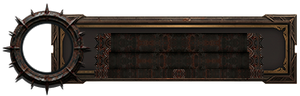
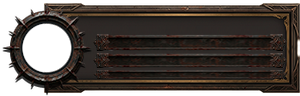
Align the reskinned client UI: orb rings, character plate, level badge, window frames (O155)
Orb ring art was cropped round a guessed centre (3, 2 pack texels off the real
opening, so the rim looked thicker right and down). The importer now uses the
measured opening (201, 209, radius 93.5), crops the square round it, cuts the
opening on the canvas centre at the liquid mask radius, and eases the panel join
cut. gen_orb_art.py --check measures each ring opening (centre within 1 texel,
radius within 1 drawn pixel of the mask).

Plate: frame drawn from corners and stretched edges, tracks span the trough
(x 93 to 287) with the fill between their caps (fill x 107, was 96), name and
three tracks 2 px apart, nothing of the frame in the portrait opening, xp fill 7.
Level badge is the pack's name plate, centred under the ring (was a red button).

9-slice frames: trimmed to opaque pixels (the right border was 2 texels thin),
scaled so corners fit whole, edges and middle cross-faded to tile without a seam.

Claude-Session: https://claude.ai/code/session_01MSp5LCfR63GEHJQb2KD2t4

diff --git a/client/tools/import_hud_kit.py b/client/tools/import_hud_kit.py
@@ -55,6 +55,7 @@ SRC = {
     'tab_on': 'Popup/PNG/Inventory_Detail_Popup/Tab_Button_Active.png',
     'tab_off': 'Popup/PNG/Inventory_Detail_Popup/Tab_Button_Inactive.png',
     'input': 'Popup/PNG/Inventory_Detail_Popup/Input_Field.png',
+    'badge': 'Dialogue & NPC/NPC_Nameplate.png',
 }
 
 GOLD_L = (232, 184, 74)
@@ -84,50 +85,86 @@ def rs(img, w, h):
     return img.resize((max(1, int(w)), max(1, int(h))), Image.LANCZOS)
 
 
-def mirrored(img, axis, n):
-    """`img` (a sample) laid out to n texels along `axis` (0 = x, 1 = y) as itself and its mirror image, so the
-    result tiles without a seam (the engine tiles the edges and the middle of a 9-slice image)"""
-    arr = np.asarray(img)
-    ax = 1 if axis == 0 else 0
-    both = np.concatenate([arr, np.flip(arr, ax)], axis=ax)
-    sl = [slice(None), slice(None)]
-    sl[ax] = slice(0, n)
-    return Image.fromarray(np.ascontiguousarray(both[tuple(sl)]), 'RGBA')
+def trim(img):
+    """the image cropped to its opaque pixels: the pack's frames carry a few transparent texels on one side, which
+    made one border of a 9-slice thinner than the other"""
+    a = np.asarray(img)[..., 3]
+    ys, xs = np.nonzero(a > 128)
+    return img.crop((int(xs.min()), int(ys.min()), int(xs.max()) + 1, int(ys.max()) + 1))
 
 
-def nine(src, W, H, caps, borders):
-    """A W x H image with borders (l, t, r, b) made of the pack image `src`: its corners (caps in pack texels),
-    a sample of its edges and of its middle, each resized and made tileable"""
+def seamless(arr, w, h):
+    """a w x h tile of `arr` (at least w + f by h + f texels) whose left edge continues its right edge and whose top
+    edge continues its bottom edge: the last f columns / rows are cross-faded into the first ones. The engine repeats
+    the edges and the middle of a 9-slice image as they are, so any other tile shows a seam."""
+    fx, fy = arr.shape[1] - w, arr.shape[0] - h   # the texels beyond the tile that are faded in
+    a = arr[:h + fy, :w + fx].astype(np.float32)
+    if fx:
+        t = ((np.arange(fx) + 0.5) / fx)[None, :, None]
+        head = a[:, :fx] * t + a[:, w:w + fx] * (1 - t)
+        a = np.concatenate([head, a[:, fx:w]], axis=1)
+    else:
+        a = a[:, :w]
+    if fy:
+        t = ((np.arange(fy) + 0.5) / fy)[:, None, None]
+        head = a[:fy] * t + a[h:h + fy] * (1 - t)
+        a = np.concatenate([head, a[fy:h]], axis=0)
+    else:
+        a = a[:h]
+    return Image.fromarray(np.clip(a + 0.5, 0, 255).astype(np.uint8), 'RGBA')
+
+
+def nine(src, W, H, caps, borders, tile=True):
+    """A W x H image with borders (l, t, r, b) made of the pack image `src` (trimmed to its opaque pixels). `caps` are
+    the source texels the corners take: the whole image is resized so that each cap becomes its border (corners and
+    edges stay whole and the same on both sides). The edges and the middle are samples of the resized image, cross-faded
+    so that they repeat without a seam (tile=True, for engine 9-slice images, which repeat them), or stretched
+    (tile=False, for an image drawn once)."""
+    src = trim(src)
     kl, kt, kr, kb = caps
     l, t, r, b = borders
     KW, KH = src.size
-    iw, ih = W - l - r, H - t - b
-    out = Image.new('RGBA', (W, H), (0, 0, 0, 0))
     sx = (l + r) / float(kl + kr) if kl + kr else H / float(KH)
     sy = (t + b) / float(kt + kb) if kt + kb else W / float(KW)
-    nx = max(2, int(round(iw / sx / 2)))   # texels of a sample that fills half of the middle
-    ny = max(2, int(round(ih / sy / 2)))
-    x0, y0 = (KW - nx) // 2, (KH - ny) // 2
+    S = rs(src, KW * sx, KH * sy)
+    SW, SH = S.size
+    out = Image.new('RGBA', (W, H), (0, 0, 0, 0))
+    iw, ih = W - l - r, H - t - b
     if l and t:
-        out.paste(rs(src.crop((0, 0, kl, kt)), l, t), (0, 0))
+        out.paste(S.crop((0, 0, l, t)), (0, 0))
     if r and t:
-        out.paste(rs(src.crop((KW - kr, 0, KW, kt)), r, t), (W - r, 0))
+        out.paste(S.crop((SW - r, 0, SW, t)), (W - r, 0))
     if l and b:
-        out.paste(rs(src.crop((0, KH - kb, kl, KH)), l, b), (0, H - b))
+        out.paste(S.crop((0, SH - b, l, SH)), (0, H - b))
     if r and b:
-        out.paste(rs(src.crop((KW - kr, KH - kb, KW, KH)), r, b), (W - r, H - b))
-    half_w, half_h = (iw + 1) // 2, (ih + 1) // 2
-    if t and iw > 0:
-        out.paste(mirrored(rs(src.crop((x0, 0, x0 + nx, kt)), half_w, t), 0, iw), (l, 0))
-    if b and iw > 0:
-        out.paste(mirrored(rs(src.crop((x0, KH - kb, x0 + nx, KH)), half_w, b), 0, iw), (l, H - b))
-    if l and ih > 0:
-        out.paste(mirrored(rs(src.crop((0, y0, kl, y0 + ny)), l, half_h), 1, ih), (0, t))
-    if r and ih > 0:
-        out.paste(mirrored(rs(src.crop((KW - kr, y0, KW, y0 + ny)), r, half_h), 1, ih), (W - r, t))
+        out.paste(S.crop((SW - r, SH - b, SW, SH)), (W - r, H - b))
+    mw, mh = max(SW - l - r, 1), max(SH - t - b, 1)
+
+    def part(box, w, h, ax=True, ay=True):
+        """the sample of S inside `box` as a w x h piece"""
+        bx0, by0, bx1, by1 = box
+        if not tile:
+            return rs(S.crop(box), w, h)
+        n = w + (min(12, w // 3) if ax else 0)   # an edge repeats along itself only
+        m = h + (min(12, h // 3) if ay else 0)
+        cx, cy = (bx0 + bx1) // 2, (by0 + by1) // 2
+        x0 = max(bx0, min(cx - n // 2, bx1 - n)) if bx1 - bx0 >= n else bx0
+        y0 = max(by0, min(cy - m // 2, by1 - m)) if by1 - by0 >= m else by0
+        arr = np.asarray(S.crop((x0, y0, x0 + n, y0 + m)))
+        if arr.shape[1] < n or arr.shape[0] < m:   # the sample is shorter than the tile: stretch it
+            arr = np.asarray(rs(S.crop(box), n, m))
+        return seamless(arr, w, h)
+
+    if iw > 0 and t:
+        out.paste(part((l, 0, SW - r, t), iw, t, True, False), (l, 0))
+    if iw > 0 and b:
+        out.paste(part((l, SH - b, SW - r, SH), iw, b, True, False), (l, H - b))
+    if ih > 0 and l:
+        out.paste(part((0, t, l, SH - b), l, ih, False, True), (0, t))
+    if ih > 0 and r:
+        out.paste(part((SW - r, t, SW, SH - b), r, ih, False, True), (W - r, t))
     if iw > 0 and ih > 0:
-        mid = rs(src.crop((x0, y0, x0 + nx, y0 + ny)), half_w, half_h)
-        out.paste(mirrored(mirrored(mid, 0, iw), 1, ih), (l, t))
+        out.paste(part((l, t, SW - r, SH - b), iw, ih), (l, t))
     return out
 
 
@@ -172,28 +209,34 @@ def scale_alpha(img, m):
 
 
 # ---------------------------------------------------------------- orbs
-ORB_CENTER = (198, 207)   # centre of the left orb of the pack's panel image
-ORB_HOLE = 97             # radius of its opening (texels)
-ORB_RADIUS = 152          # radius kept (the outer spikes and the chain beyond it are cut with a soft edge)
-ORB_EAST = (-55.0, 45.0)  # degrees: the side that joins the panel, cut from ORB_JOIN on
-ORB_JOIN = 134
+ORB_CENTER = (201.0, 209.0)  # centre of the opening of the left orb of the pack's panel image (image coordinates):
+                             # the circle fitted to the edge of its dark disc, measured, not read off the picture
+ORB_HOLE = 93.5              # that circle's radius (texels)
+ORB_HALF = 142               # half the side of the square kept around it: ORB_HOLE / ORB_HALF is the 50 / 76 of the
+                             # liquid (shaderfxlogic.lua L.orbSize), so the opening is as large as the liquid
+ORB_EAST = (-55.0, 45.0)     # degrees: the side that joins the panel, cut from ORB_JOIN on
+ORB_JOIN = 124
+ORB_UNDER = 1.5              # texels the rim overlaps the liquid's soft edge (no gap of background between them)
 
 
 def orb_source(kit):
-    """the orb's ring on its own: a square of 2 * ORB_RADIUS texels, the opening transparent"""
+    """the orb's ring on its own: a square of 2 * ORB_HALF texels centred on the opening"""
     panel = load(kit, 'panel')
     cx, cy = ORB_CENTER
-    n = ORB_RADIUS
-    img = panel.crop((cx - n, cy - n, cx + n, cy + n))
+    n = ORB_HALF
+    img = panel.crop((int(cx) - n, int(cy) - n, int(cx) + n, int(cy) + n))
     size = 2 * n
     yy, xx = np.mgrid[0:size, 0:size].astype(np.float32)
     dx, dy = xx - (n - 0.5), yy - (n - 0.5)
     d = np.sqrt(dx ** 2 + dy ** 2)
     ang = np.degrees(np.arctan2(dy, dx))
     keep = np.clip((n - d) / 10.0, 0, 1)                             # soft outer edge
-    east = (ang > ORB_EAST[0]) & (ang < ORB_EAST[1])
-    keep = np.where(east, np.minimum(keep, np.clip((ORB_JOIN - d) / 6.0 + 0.5, 0, 1)), keep)
-    keep = keep * np.clip((d - ORB_HOLE) / 1.5 + 0.5, 0, 1)         # the opening
+    # the side that joins the panel is cut back to ORB_JOIN, eased in and out over 20 degrees (no straight edge)
+    mid, half = (ORB_EAST[0] + ORB_EAST[1]) / 2.0, (ORB_EAST[1] - ORB_EAST[0]) / 2.0
+    f = np.clip((half - np.abs(ang - mid)) / 20.0, 0, 1)
+    f = f * f * (3 - 2 * f)
+    limit = n - (n - ORB_JOIN) * f
+    keep = np.minimum(keep, np.clip((limit - d) / 6.0 + 0.5, 0, 1))
     return scale_alpha(img, keep)
 
 
@@ -203,30 +246,48 @@ def orb_sizes():
     return [int(v) for v in re.findall(r'size = (\d+)', m.group(1))] if m else []
 
 
+def liquid_size(size):
+    """as shaderfxlogic.lua L.orbSize (and gen_orb_art.py): floor(size * 50 / 76 + 0.5)"""
+    return int(size * 50 / 76.0 + 0.5)
+
+
 def gen_orbs(kit):
     src = orb_source(kit)
     sizes = orb_sizes()
     if not sizes:
         sys.exit('import_hud_kit: no ORB_SIZES in ' + LOGIC)
     for s in sizes:
-        save(rs(src, 2 * s, 2 * s), os.path.join(ORB_DIR, 'orb_ring_%d.png' % s), 'orb_ring_%d.png' % s)
+        ring = rs(src, 2 * s, 2 * s)
+        # the opening: the liquid's mask is a disc of radius L - 1 texels (gen_orb_art.py) centred on the canvas, so
+        # the ring is cut open on the same centre, a little narrower than the disc
+        r_open = liquid_size(s) - 1 - ORB_UNDER
+        ring = scale_alpha(ring, circle_alpha(2 * s, 2 * s, s - 0.5, s - 0.5, r_open))
+        save(ring, os.path.join(ORB_DIR, 'orb_ring_%d.png' % s), 'orb_ring_%d.png' % s)
     return src
 
 
 # ---------------------------------------------------------------- character plate (game_chaoshud)
+# Every number here is a pixel of the plate (300 x 96); chaoshud.otui and chaoshud.lua (BAR_W) use the same ones.
 HUD_W, HUD_H = 300, 96
 HUD_PC = (47, 48)          # portrait centre
-HUD_BAR_X, HUD_BAR_W = 96, 166
-HUD_BARS = {'hp': (35, 15), 'mp': (54, 13), 'xp': (71, 5)}   # y, height
+PLAQUE = (44, 3, 300, 93)  # the frame behind the bars: x0, y0, x1, y1 (its left part is under the portrait ring)
+PLAQUE_BORDER = (40, 24, 40, 24)   # its corners; the dark trough is what is inside them
+PLAQUE_CAPS = (50, 30, 50, 30)     # the source texels of those corners
+TROUGH_X = (93, 287)       # the visible trough: from the portrait ring to the frame
+TRACK_CAP = 14             # the rivet caps at the two ends of a bar's track
+HUD_BAR_X, HUD_BAR_W = TROUGH_X[0] + TRACK_CAP, 166   # a fill: x and width; the track is 14 wider at each end
+assert TROUGH_X[1] - TROUGH_X[0] == HUD_BAR_W + 2 * TRACK_CAP
+HUD_BARS = {'hp': (35, 15), 'mp': (54, 13), 'xp': (71, 7)}   # fill y, height; the track is 1 taller at each side
+HUD_NAME = (17, 15)        # y, height of the name line above the first track
 AVATAR_SCALE = 0.9
 AVATAR_CENTER = (49.5, 50.5)   # centre of the avatar ring in the pack image
 AVATAR_HOLE = 27.0             # its opening, texels
+LEVEL_SIZE = (40, 17)      # the level badge, under the portrait ring: centred on HUD_PC[0], from y 79 to the plate's bottom
 
 
-def bar_frame(src, W, H):
-    """the pack's rust-framed bar socket as W x H: its two ends kept, the middle repeated"""
-    cap = int(round(28 * H / float(src.height)))
-    return nine(src, W, H, (28, 0, 28, 0), (cap, 0, cap, 0))
+def track(src, W, H):
+    """the pack's rust-framed bar socket as W x H: its two ends kept, the middle stretched"""
+    return nine(src, W, H, (29, 0, 27, 0), (TRACK_CAP, 0, TRACK_CAP, 0), tile=False)
 
 
 def bar_fill(src, W, H):
@@ -249,13 +310,14 @@ def gold_ramp(img):
 def gen_plate(kit):
     avatar = load(kit, 'avatar')
     plate = Image.new('RGBA', (HUD_W, HUD_H), (0, 0, 0, 0))
-    # plaque behind the bars: the pack's wide bar frame, warmed (its slate interior is blue-grey)
+    # frame behind the bars: the pack's wide bar frame, warmed (its slate interior is blue-grey)
     plaque = tint(load(kit, 'plaque'), (1.12, 0.98, 0.82))
-    plate.alpha_composite(rs(plaque, 246, 70), (51, 14))
-    # sockets of the three bars
-    hp_bg = load(kit, 'hp_bg')
+    x0, y0, x1, y1 = PLAQUE
+    plate.alpha_composite(nine(plaque, x1 - x0, y1 - y0, PLAQUE_CAPS, PLAQUE_BORDER, tile=False), (x0, y0))
+    # the track of each bar: as wide as the trough, the fill sits between its caps
+    socket = load(kit, 'hp_bg')
     for key, (y, h) in sorted(HUD_BARS.items()):
-        plate.alpha_composite(bar_frame(hp_bg, HUD_BAR_W + 4, h + 4), (HUD_BAR_X - 2, y - 2))
+        plate.alpha_composite(track(socket, HUD_BAR_W + 2 * TRACK_CAP, h + 2), (HUD_BAR_X - TRACK_CAP, y - 1))
     # portrait ring
     w, h = int(round(avatar.width * AVATAR_SCALE)), int(round(avatar.height * AVATAR_SCALE))
     ring = rs(avatar, w, h)
@@ -264,14 +326,22 @@ def gen_plate(kit):
     hole = AVATAR_HOLE * AVATAR_SCALE
     ring = scale_alpha(ring, circle_alpha(w, h, HUD_PC[0] - ox - 0.5, HUD_PC[1] - oy - 0.5, hole))
     plate.alpha_composite(ring, (ox, oy))
+    # nothing of the frame behind the bars shows in the opening: the portrait (and the cover over it) is clear there
+    plate = scale_alpha(plate, circle_alpha(HUD_W, HUD_H, HUD_PC[0] - 0.5, HUD_PC[1] - 0.5, hole))
     save_image(plate, 'chaos/skin/hud_plate')
     # the part of the plate over the portrait's square corners
     save_image(plate.crop((0, 0, 96, 96)), 'chaos/skin/hud_portrait_cover')
     save_image(bar_fill(load(kit, 'hp'), HUD_BAR_W, HUD_BARS['hp'][1]), 'chaos/skin/hud_hp_fill')
     save_image(bar_fill(load(kit, 'mp'), HUD_BAR_W, HUD_BARS['mp'][1]), 'chaos/skin/hud_mp_fill')
     save_image(bar_fill(gold_ramp(load(kit, 'xp')), HUD_BAR_W, HUD_BARS['xp'][1]), 'chaos/skin/hud_xp_fill')
-    save_image(nine(load(kit, 'btn_pressed'), 40, 18, (18, 18, 18, 18), (4, 4, 4, 4)), 'chaos/skin/hud_level')
+    save_image(gen_level(kit), 'chaos/skin/hud_level')
     return hole
+
+
+def gen_level(kit):
+    """the level badge: the pack's stone name plate with its pointer (turned to point up at the ring), warmed"""
+    plate = trim(load(kit, 'badge')).transpose(Image.FLIP_TOP_BOTTOM)
+    return tint(rs(plate, *LEVEL_SIZE), (1.25, 1.05, 0.8), (6, 2, 0))
 
 
 # ---------------------------------------------------------------- action bar slots
@@ -289,13 +359,13 @@ def gen_slots(kit):
 # ---------------------------------------------------------------- windows, panels, controls
 def gen_windows(kit):
     frame = load(kit, 'frame')
-    save_image(nine(frame, 96, 96, (18, 34, 18, 18), (18, 34, 18, 18)), 'chaos/window')
-    save_image(nine(frame, 128, 128, (12, 32, 12, 12), (12, 32, 12, 12)), 'chaos/skin/window')
-    # the minimap window (stock MapMiniWindow: border 4, top 19, bottom 4): half the size
-    save_image(nine(frame, 102, 114, (8, 38, 8, 8), (4, 19, 4, 4)), 'ui/map-borderimage')
-    save_image(nine(frame, 32, 32, (8, 8, 8, 8), (8, 8, 8, 8)), 'chaos/panel')
-    save_image(tint(nine(frame, 32, 32, (6, 6, 6, 6), (6, 6, 6, 6)), (0.8, 0.8, 0.8)), 'chaos/panel_dark')
-    save_image(tint(nine(frame, 32, 32, (8, 8, 8, 8), (8, 8, 8, 8)), (1.5, 1.4, 1.2), (14, 9, 2)),
+    save_image(nine(frame, 96, 96, (24, 45, 24, 24), (18, 34, 18, 18)), 'chaos/window')
+    save_image(nine(frame, 128, 128, (22, 58, 22, 22), (12, 32, 12, 12)), 'chaos/skin/window')
+    # the minimap window (stock MapMiniWindow: border 4, top 19, bottom 4): at a third of the pack size
+    save_image(nine(frame, 102, 114, (12, 57, 12, 12), (4, 19, 4, 4)), 'ui/map-borderimage')
+    save_image(nine(frame, 32, 32, (24, 24, 24, 24), (8, 8, 8, 8)), 'chaos/panel')
+    save_image(tint(nine(frame, 32, 32, (18, 18, 18, 18), (6, 6, 6, 6)), (0.8, 0.8, 0.8)), 'chaos/panel_dark')
+    save_image(tint(nine(frame, 32, 32, (24, 24, 24, 24), (8, 8, 8, 8)), (1.5, 1.4, 1.2), (14, 9, 2)),
                'chaos/panel_highlight')
     save_image(nine(load(kit, 'tip'), 32, 32, (10, 10, 10, 10), (4, 4, 4, 4)), 'chaos/skin/tooltip')
 

diff --git a/client/tools/gen_orb_art.py b/client/tools/gen_orb_art.py
@@ -11,13 +11,15 @@ widget draws with image-smooth), and a UI scaled 2x draws it 1:1.
   orb_ring_<S>.png  2S x 2S  made by import_hud_kit.py (S the orb size, L its liquid: round(S * 50 / 76))
 
 Usage: python3 client/tools/gen_orb_art.py [--check]   (Pillow; writes into overlay/modules/game_shaderfx/images/)
-  --check: the committed masks have the pixels the generator draws and every ring exists at 2S x 2S (exit 1 when
-  not, or when a stray orb image is left); nothing is written.
+  --check: the committed masks have the pixels the generator draws, every ring exists at 2S x 2S, the opening of each
+  ring is centred on its canvas (1 texel) and as wide as the mask (1 drawn pixel; exit 1 when not, or when a stray orb
+  image is left); nothing is written.
 """
 import math
 import os
 import re
 import sys
+from collections import deque
 
 from PIL import Image
 
@@ -69,6 +71,52 @@ def art():
     return out
 
 
+def opening(img):
+    """(centre x, centre y, radius) of the transparent opening around the middle of a ring image, in texels (pixel
+    centres at index + 0.5): its alpha < 128 region as flooded from the middle; the radius is the circle of equal area"""
+    w, h = img.size
+    alpha = img.getchannel('A').load()
+    start = (w // 2, h // 2)
+    if alpha[start] >= 128:
+        return None
+    seen = {start}
+    todo = deque([start])
+    while todo:
+        x, y = todo.popleft()
+        for nx, ny in ((x + 1, y), (x - 1, y), (x, y + 1), (x, y - 1)):
+            if 0 <= nx < w and 0 <= ny < h and (nx, ny) not in seen and alpha[nx, ny] < 128:
+                seen.add((nx, ny))
+                todo.append((nx, ny))
+    n = float(len(seen))
+    return (sum(x for x, y in seen) / n + 0.5, sum(y for x, y in seen) / n + 0.5, math.sqrt(n / math.pi))
+
+
+def check_concentric(images):
+    """the ring's opening is centred on its canvas (within 1 texel) and as wide as the liquid's mask (within 1 drawn
+    pixel = SCALE texels, the rim overlapping the liquid by a little): the liquid fills the opening and nothing else"""
+    bad = []
+    for s in orb_sizes(open(LOGIC, encoding='utf-8').read()):
+        name = 'orb_ring_%d.png' % s
+        path = os.path.join(OUT, name)
+        if not os.path.exists(path) or Image.open(path).size != (s * SCALE, s * SCALE):
+            continue   # reported by check()
+        hole = opening(Image.open(path).convert('RGBA'))
+        if hole is None:
+            bad.append(name + ': no opening in the middle of the ring')
+            continue
+        c = s * SCALE / 2.0
+        if abs(hole[0] - c) > 1 or abs(hole[1] - c) > 1:
+            bad.append('%s: the opening is centred on %.2f, %.2f, the canvas on %.2f (max 1 texel off)' % (name, hole[0], hole[1], c))
+        mask_name = 'orb_mask_%d.png' % liquid_size(s)
+        mask = images.get(mask_name)
+        if mask is None:
+            continue
+        mr = math.sqrt(sum(1 for a in mask.getchannel('A').tobytes() if a >= 128) / math.pi)
+        if abs(hole[2] - mr) > SCALE:
+            bad.append('%s: the opening has radius %.2f texels, the mask %s %.2f (max %d apart)' % (name, hole[2], mask_name, mr, SCALE))
+    return bad
+
+
 def check(images):
     bad = []
     rings = set()
@@ -91,7 +139,7 @@ def check(images):
     for name in sorted(os.listdir(OUT)):
         if name.startswith('orb_') and name.endswith('.png') and name not in images and name not in rings:
             bad.append(name + ': not made by the generator (left over)')
-    return bad
+    return bad + check_concentric(images)
 
 
 def main(argv):

diff --git a/ROADMAP.md b/ROADMAP.md
@@ -325,7 +325,7 @@ Estimated before items 4 and 5: ~155 h to level 1000 for a sorcerer, ~285 h for 
 | O152 | Owner 2026-10-23 (live spectator, phase 3: "ver o gameplay em tempo real"): the Ao vivo view draws the other visible floors and the light | done (relay unit tests under python3; the app compiles against the API jar, `CastMath` run on a JVM; not run on a phone or a server) | `server/tools/cast_relay.py` (protocol 3: `fl`, `fc`, `ft`, `fxf`, `mif`, item sheets `gr` / `lt`, creature `lt`), `android/.../CastView.java`, `CastMath.java`; server/README.md "Live spectator" phase 3, docs/ADMIN_APP.md. No engine change (src-patch 0064 already carries floors, light, effects, missiles). |
 | O151 | Follow-up of O148: "the other 4 roulettes untouched" and "Open: the roulette value against the token drop rate" | done (computed, not run live; server: `install_all.py SERVER_DIR --only files,roulette` and a restart; no client change, no SQL) | Found the 4 others by `config.actionId`: exercise 18563, premium 18564, crystal 18565 and 18566 (the crystal scripts were copies of the premium and exercise ones). Stale pools: exercise was 21 chests (6 of the retired axe and club kinds, a Ranger could use 29% of them), premium 14 auras and wings (every spin broadcast), crystal 21 fixed Moist gear pieces plus 2 units. New pools `roulette_exercise_config.lua`, `roulette_premium_config.lua`, `roulette_crystal_config.lua`, written by `patch_roulette.py` by actionId (wrong token or unknown actionId left alone, retired or Moist ids refused); crystal scripts renamed Crystal Roulette. Gold and unique chest now work on all five (`prizes.lua`, `ChaosPrizesCore.configFor`); an exercise chest the class cannot train with becomes the same tier of a kind it can. Value model `tools/roulette_model.lua` (in CI, `--check`, band 0.80-1.35 at levels 650-2000): spin worth vs token cost at level 1000 exercise 2.6 -> 79.4 of 84.0 min, premium 0 -> 96.8 of 98.6, crystal 0 -> 44.8 of 45.0, boss 60.1 of 63.7 (unchanged). Assumptions: 8 min per boss kill, 15 min per Tower Defense run, to measure on the beta (`roulette_value_config.lua`). Tests: `roulette_pools_test.lua`, `prizes_test.lua`, `patch_roulette_test.py`. Details: server/README.md "Roulette prizes against token drops (O151)". |
 | O148 | Beta 2026-10-23: "Boss roulette: I spun it twice. One reward was the golden deck, the other a boat. It shows lots of card rewards" and "~1000 Rare and Legendary kills in hunts, never a Unique" | done (computed and sampled with unit tests under luajit and lua5.3, not run on a live server; server: `install_all.py --only files,roulette` and a restart; no client change, no new text) | **Roulette**: the pool is `boss_roulette_config.lua`, written into the base script by `patch_roulette.py`: 16 loot-layer orbs, sockets, gold scaled to the level (0.2 hour of hunting gold per coin shown), a unique chest of the level, Furious badges, catalysts, 2 cards; no deck, ship or boat. A spin: 1.16 orbs + 717k gold at level 1000 (788 + 66 kills of orb and gold) against 0 before; cards 6.4% -> 1.0%. **Uniques**: not bugged in the code, three causes (name lists without hunt monsters, the thin pack factor, the level gate reading 0); fixed with `unique.open`, `uniquePace`, `monsterLevel`: Rare / Legendary kills at level 1500 give 17.4 uniques per 1000 (was 0.65), one every ~3.4 hours; pity (x3) already applies. Open: the roulette value against the token drop rate; the other 4 roulettes untouched. |
-| O155 | Client UI reskin with a purchased painted UI pack (owner approved 2026-10-24): liquid orb rings, character plate, action bar slots, window, panel, button, tab, text field, tooltip and minimap frames | done | `client/tools/import_hud_kit.py <pack-dir>` converts the pack (crop, resize, 9-slice, recolour; originals never committed), same sizes and borders as the procedural skin so no style changes; docs/CREDITS.md entry. Orb opening is 50/76 of the orb (was 64/76), plate portrait opening radius 24. Not done: cursor (the base cursor files are not in the repo), buff icons (no clean map onto the buff ids), the pack's skull-and-chain skill bar (fixed 8 slots with built-in orbs; the base action bar has a variable slot count). Not yet seen in a live client |
+| O155 | Client UI reskin with a purchased painted UI pack (owner approved 2026-10-24): liquid orb rings, character plate, action bar slots, window, panel, button, tab, text field, tooltip and minimap frames | done | `client/tools/import_hud_kit.py <pack-dir>` converts the pack (crop, resize, 9-slice, recolour; originals never committed), same sizes and borders as the procedural skin so no style changes; docs/CREDITS.md entry. Orb opening is 50/76 of the orb (was 64/76), measured on the pack's art and cut on the canvas centre (gen_orb_art.py --check holds it to 1 texel); plate portrait opening radius 24, fills in tracks that span the trough (fill x 107), level badge centred under the ring; 9-slice frames are trimmed, symmetric and seamless. Not done: cursor (the base cursor files are not in the repo), buff icons (no clean map onto the buff ids), the pack's skull-and-chain skill bar (fixed 8 slots with built-in orbs; the base action bar has a variable slot count). Not yet seen in a live client |
 | O146 | Beta feedback 2026-10-23 (level 1500): stats over their caps are wasted, Paragon fills by level 1100-1200 and ~300 points are left, gear crit is not shown in the tree window | done (unit tested, not measured in game; server: `files` step, a restart; client update; no DB migration) | Confirmed: attribute and damage-percent caps were hard (`passivetree_effects.lua`), Paragon had no sink, the window showed node sums only. Soft caps instead (server/README.md "Soft caps, Paragon Mastery and totals (O146)"): full value to the cap, then `cap + H ln(1 + (raw - cap) / H)`; absorb (75) and speed stay hard. Paragon Mastery: seven endless ranks (1 point each, `scale ln(1 + n/h)`) plus an exchange of free tree points for Paragon points. New `statTotals` message and a totals section in the tree window; `tools/crit_reach.lua` computes the reachable crit chance (dedicated build about 68, threshold for a gated passive 45). No crit-threshold passive exists in the repo, so none was changed. Open: the exchange is one way; tuning the mastery scales needs play data |
 | O147 | Beta feedback 2026-10-22 ("dungeons need two players; the old bug of respawning monsters and a returning boss; let content be solo or remove the weekly limits, e.g. the Orb of Binding"): solo dungeons, the respawn check, beta test mode | done (unit and mocked-engine tests, not run on a live server; server: `files` step and a restart; admin app rebuild for the new card; no client change) | Dungeons: the base `NeedParty` / `AmountParty` is only the largest group; one player enters alone (a queued player waits `Chaos.dungeons.party.soloWaitSeconds` = 5 s for a partner of the same difficulty). Monsters of a run scale with its size: health x (1 + 0.6 (n-1)), damage to the players x (1 + 0.1 (n-1)); the numbers of every dungeon are the measured solo ones, so 1 player = x1.0 (`dungeons_difficulty.lua` `D.partyHealth` / `D.partyDamage`, `tests/dungeons_difficulty_test.lua`, `tests/dungeons_area_test.lua`). Respawn bug: the map respawn was already refused during a run (owner 2026-10-17); one gap found and fixed: a won run kept its exit delay (10 s) with `ended` set, in which the map could respawn the boss and the trash next to the group (`runAt` now holds until teardown); the boss is created once (unlock once) and nothing is created after the run opens, tested. Beta test mode: `Chaos.betaMode` (`beta_mode_config.lua` `enabled`, default off) lifts 8 weekly / daily gameplay limits (list in server/README.md "Beta test mode"); never the store's `weeklyLimit` offers (real money) unless the owner names an offer in `storeOfferKeys` (empty). `chaos-ctl.sh beta-mode on|off|status [restart]`, admin app Comandos > Modo beta (testes) > Ligar / Desligar; `update-apply` keeps the switch (`install_all.py` `keep_switch`). Open: the Orb of Binding sold in the store (3 a week, Chaos Coins) stays capped; to lift it for the beta put `"item:32252x1"` in `storeOfferKeys` (owner decision) |
 | O149 | Follow-ups of O142: two legendary cards in a deck (the base `elseif` chain let only the first fire), class lines with few usable common cards, wand vs rod | done (mocked engine and a copy of the base script, not seen in game; server: `badges`, `files` steps and a restart; no client change) | `patch_badges.py` turns the 15 `elseif` of the legendary chain into independent `if`s, so every active legendary card is checked (the summon lock still allows one summon at a time; an O142-patched script is upgraded). Common lines per class were 2 to 7 (median 3): Illusionist, Thief line, Monk line, Templar line had 2 and the Necromancer line 3; now every class has at least 3 and the Necromancer line 4 (`also` spells: Marrow Bolt and Soulrend Beam on Rime Bloom, Radiant Smite on Dawnpiercer, Shattered Psyche on Frozen Crypt, Shuriken Toss on Primordial Squall, Palm Shockwave on Earthbreaker); `cards_test.lua` keeps the floor. Wands and rods stay one weapon type: either mage legendary card works with either (decided, documented; the engine has no wand/rod flag and cards do not depend on the vocation) |
